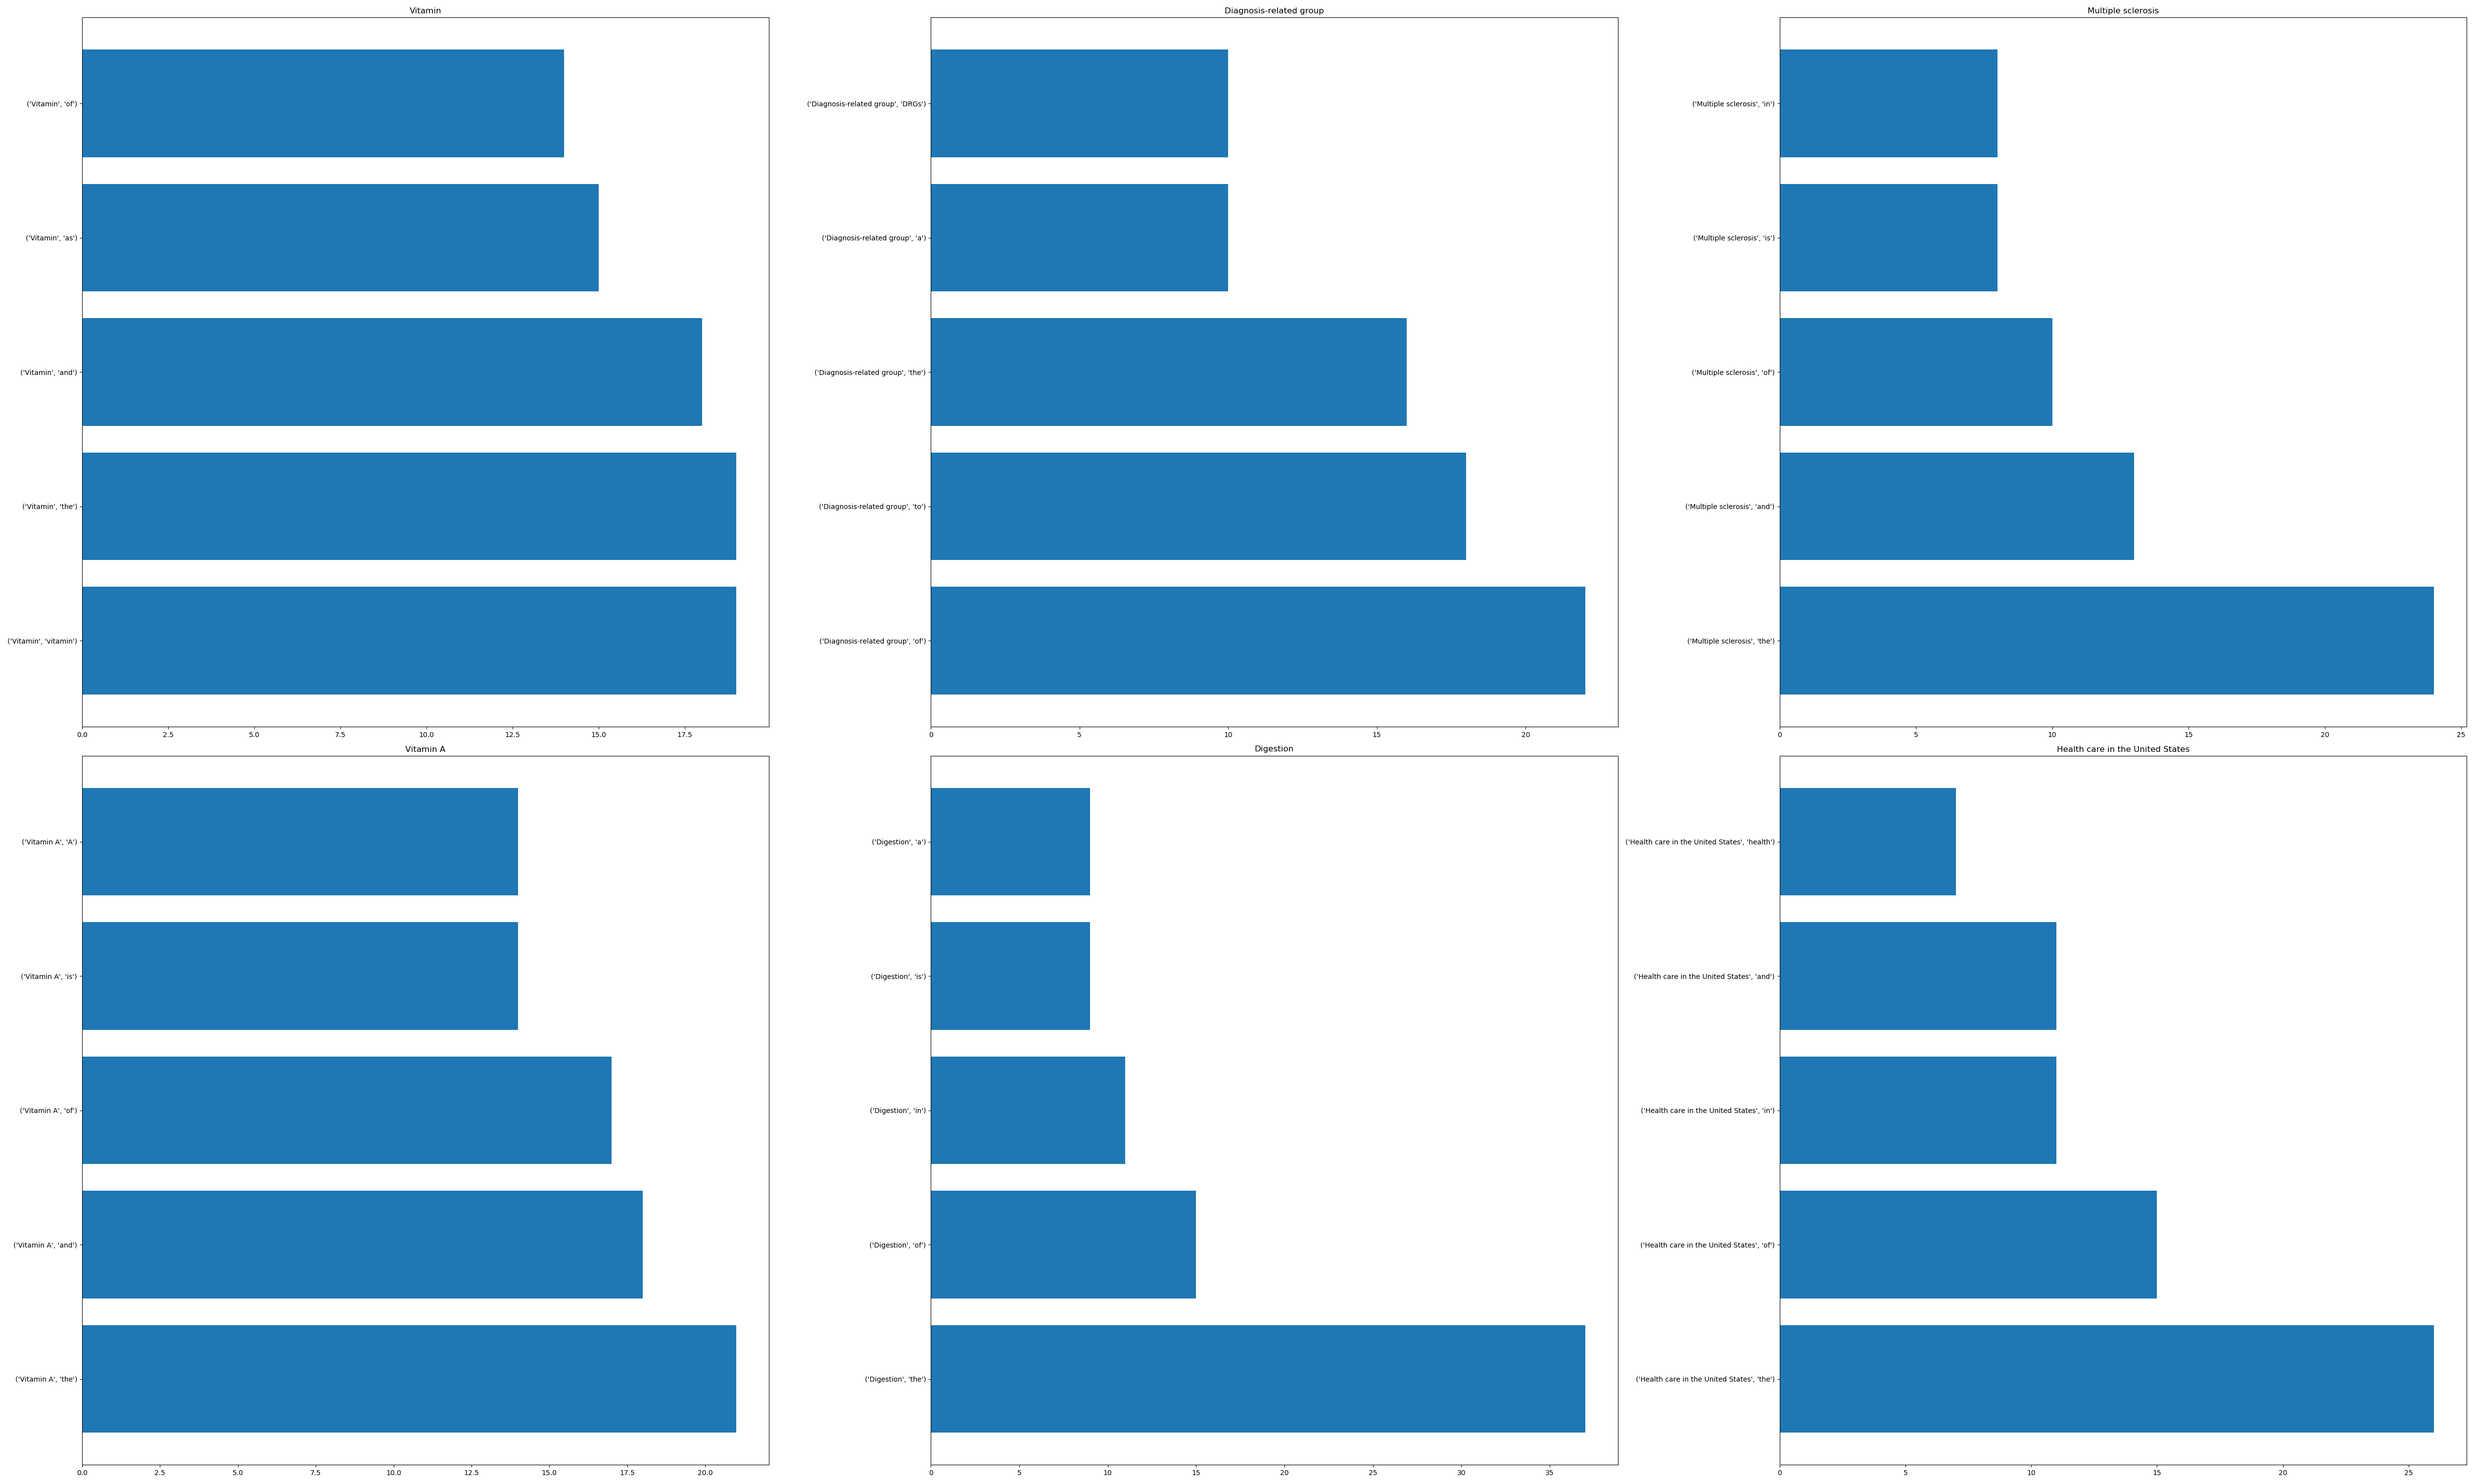
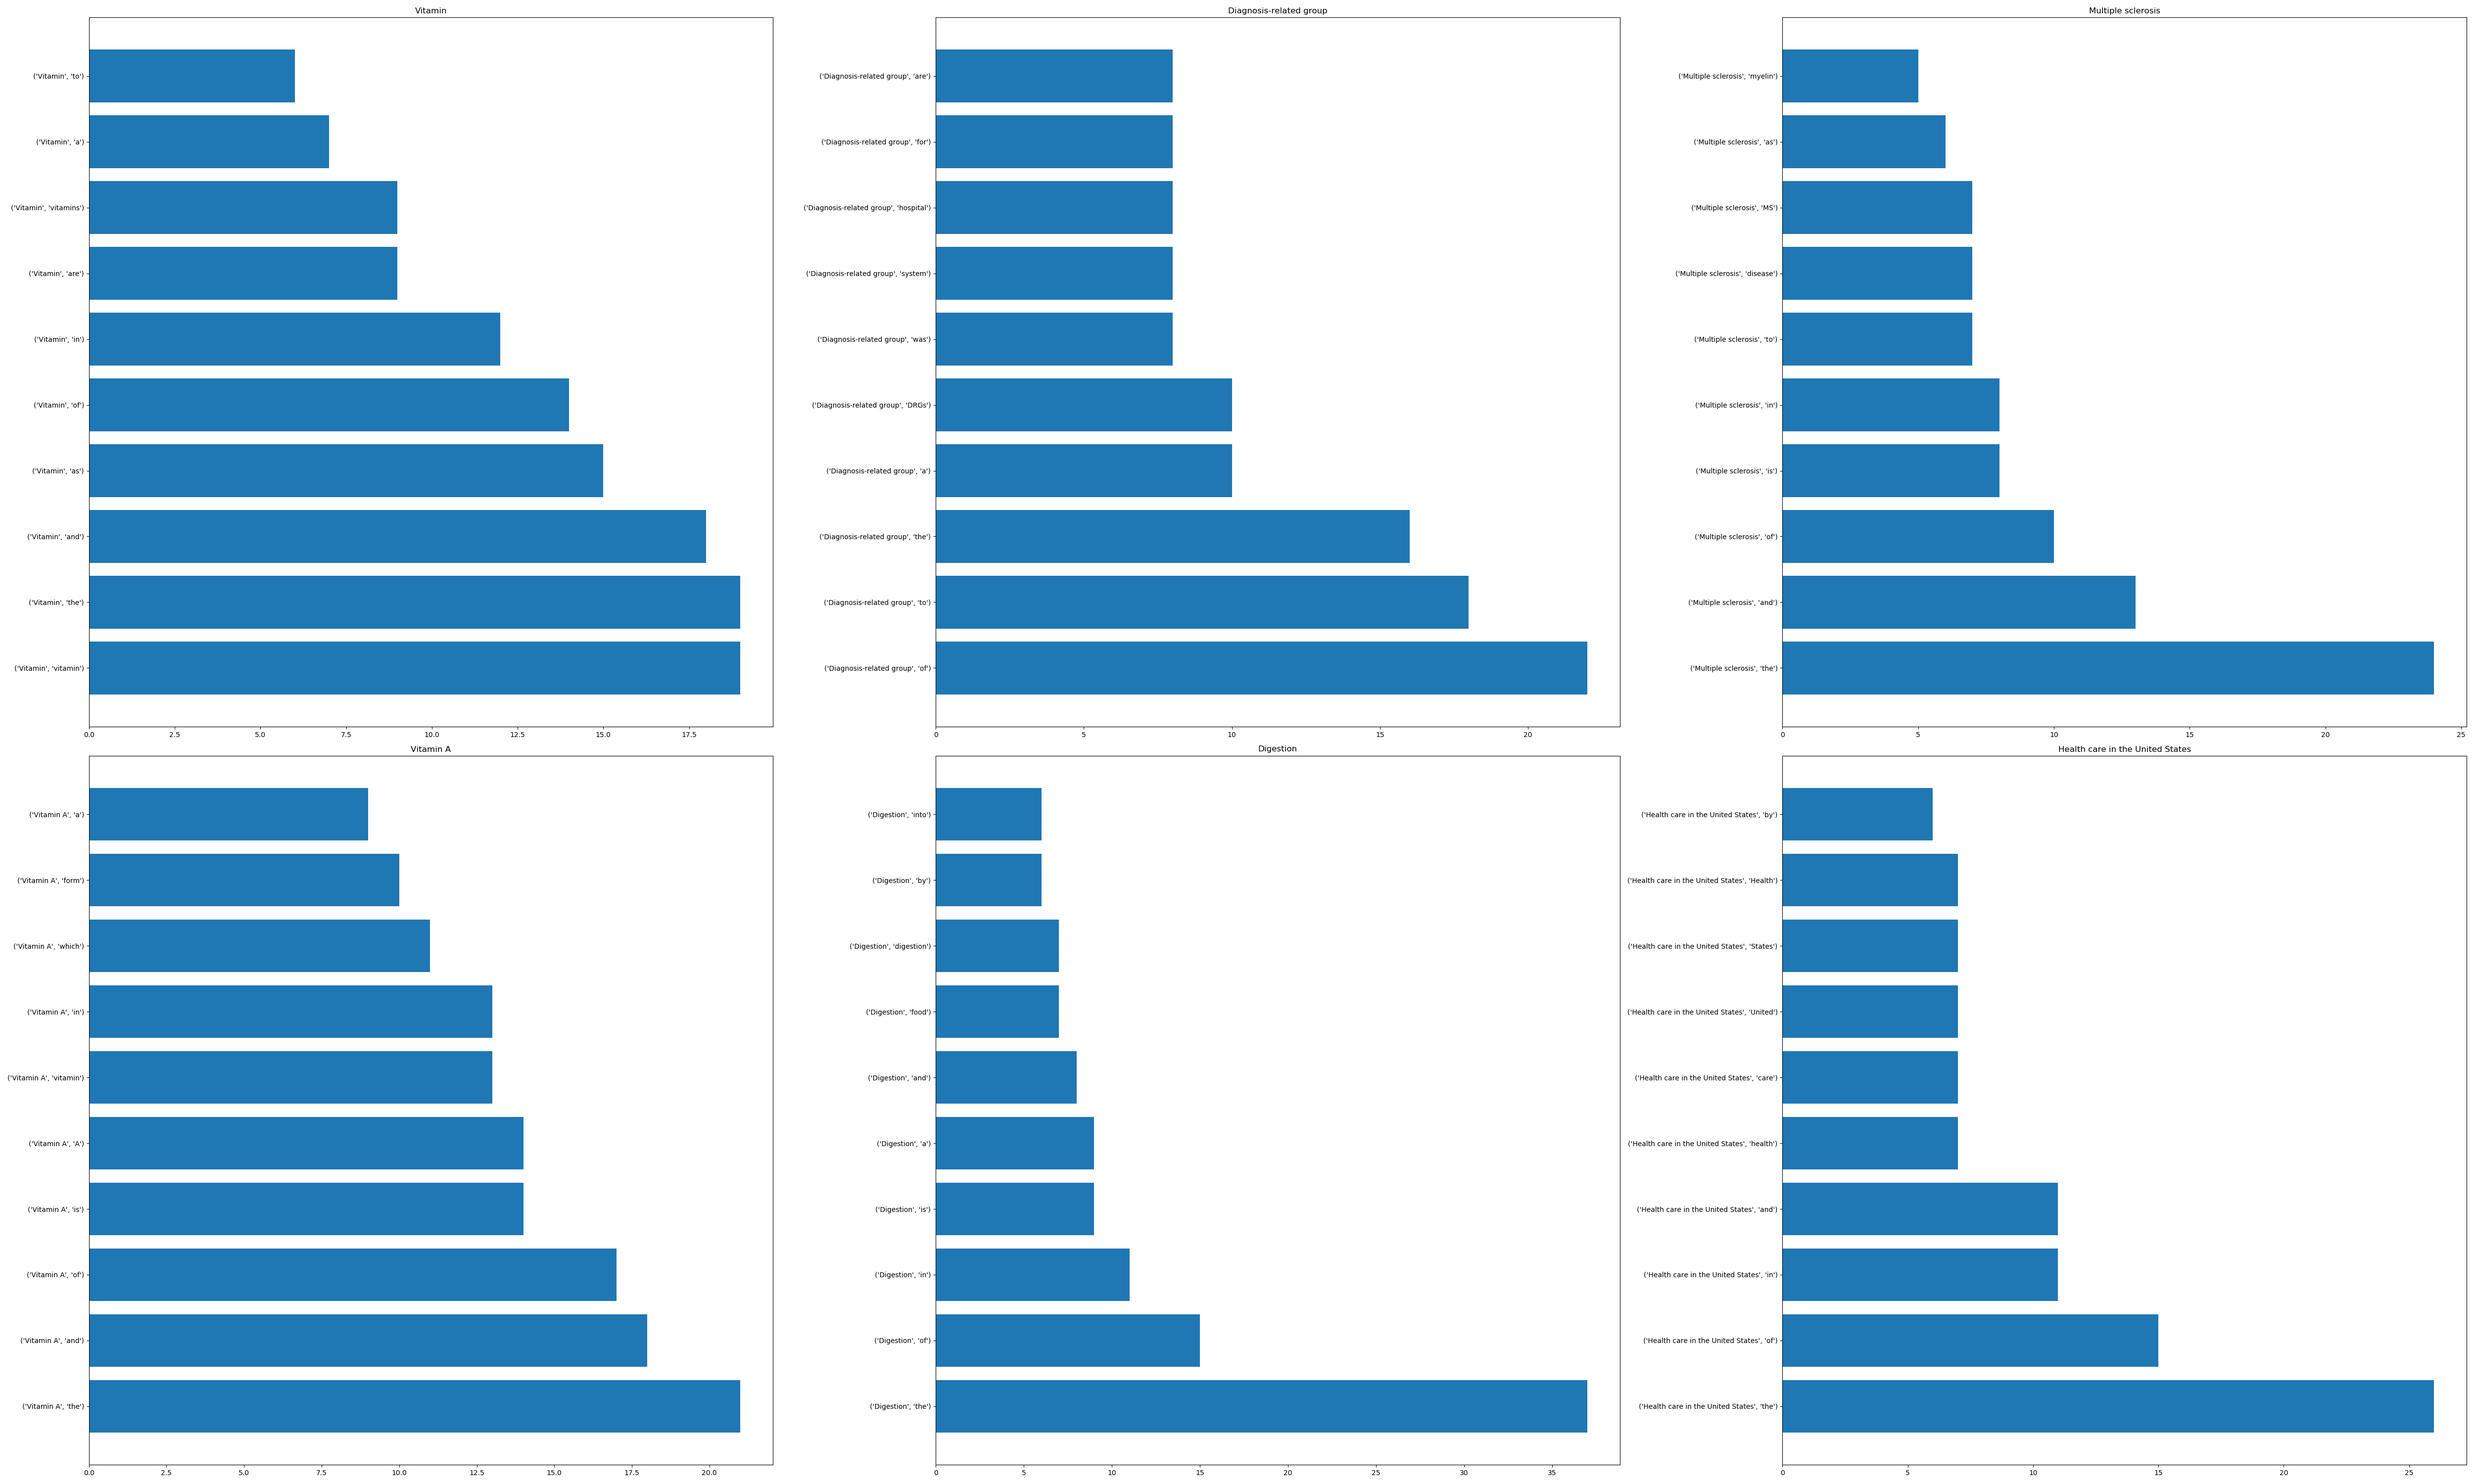
Fixed graphs for README

diff --git a/src/main.py b/src/main.py
@@ -31,7 +31,7 @@ def plotting_word_counts_no_stopwords(healthcare_df, text_df, counts_df, total_c
     # pretty_plot_top_n(total_counts_df['n_w'], top_n=3, filepath='graphs/wordcount_wiki_no_stopwords.png')
     top_n_dfs = make_violins_pipeline(healthcare_df, labels, remove_stop=True)
     plot_zipf(top_n_dfs, filepath='graphs/collaged_zipf_no_stopwords.png', top_n=50, numrows=2, numcols=3)
-    plot_multi_top_n(top_n_dfs, filepath='graphs/collaged_topn_no_stopwords.png', top_n=5, numrows=2, numcols=3)
+    plot_multi_top_n(top_n_dfs, filepath='graphs/collaged_topn_no_stopwords.png', top_n=10, numrows=2, numcols=3)
     make_counts_violin(counts_df, filepath='graphs/healthcare_violin_no_stopwords.png')
     make_counts_violin(total_counts_df, filepath='graphs/wikiQA_violin_no_stopwords.png')  
 
@@ -83,7 +83,7 @@ if __name__ == '__main__':
               'Health care in the United States']
     next_n_dfs = make_violins_pipeline(healthcare_df, next_6)
     plot_zipf(next_n_dfs, filepath='graphs/next6_zipf.png', top_n=50, numrows=2, numcols=3)
-    plot_multi_top_n(next_n_dfs, filepath='graphs/collaged_nextn.png', top_n=5, numrows=2, numcols=3)
+    plot_multi_top_n(next_n_dfs, filepath='graphs/collaged_nextn.png', top_n=10, numrows=2, numcols=3)
     next_n_dfs = make_violins_pipeline(healthcare_df, next_6, remove_stop=True)
-    plot_multi_top_n(next_n_dfs, filepath='graphs/collaged_nextn_no_stopwords.png', top_n=5, numrows=2, numcols=3)
+    plot_multi_top_n(next_n_dfs, filepath='graphs/collaged_nextn_no_stopwords.png', top_n=10, numrows=2, numcols=3)
     plot_zipf(next_n_dfs, filepath='graphs/next6_zipf_no_stopwords.png', top_n=50, numrows=2, numcols=3)
